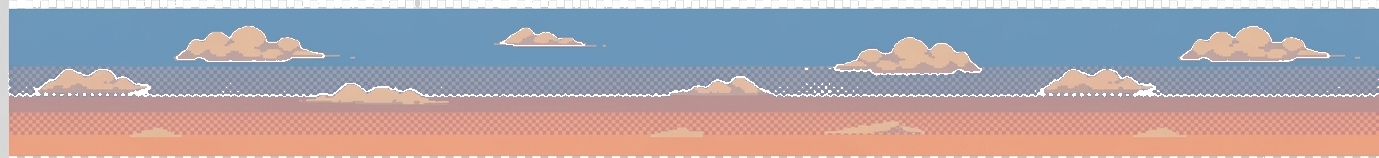
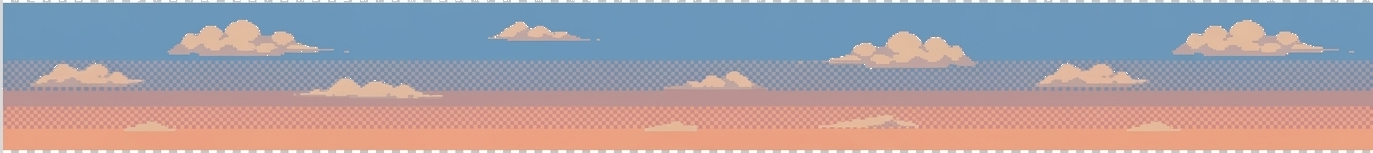
fix: clean asset extraction — full mountain peaks, treeline, no gray borders
- Rewrite extraction using saturation-based pixel detection (delta > 8)
  instead of neutral-fraction thresholds; correctly finds all four tight
  edges per layer so narrow peaks and tree tips are never clipped
- Tighten checkerboard removal delta from 15 → 5 to avoid erasing warm
  near-neutral sky sunset pixels in the dithered gradient
- Set rowing-scene CSS background to #d4895a (warm sunset) so sky dithered
  transparency composites naturally
- Update Pixi app background to match

diff --git a/dashboard/src/components/RowingScene.tsx b/dashboard/src/components/RowingScene.tsx
@@ -99,7 +99,7 @@ export function RowingScene({
       await app.init({
         width: W,
         height: H,
-        backgroundAlpha: 0,
+        background: 0xd4895a, // warm sunset — matches sky dithered transparency
         antialias: false,
         resolution: window.devicePixelRatio ?? 1,
         autoDensity: true,

diff --git a/dashboard/src/components/RowingScene.css b/dashboard/src/components/RowingScene.css
@@ -7,6 +7,8 @@
   overflow: hidden;
   border-radius: 1rem;
   margin-bottom: 0.75rem;
+  /* Warm sunset base — shows through sky dithered transparency */
+  background: #d4895a;
 }
 
 @media (min-width: 768px) {

diff --git a/scripts/extract_rowing_assets.py b/scripts/extract_rowing_assets.py
@@ -1,13 +1,12 @@
 """
 Extract individual layer PNGs from rower_sheet_long.png.
 
-The source file uses a gray checkerboard fill (RGB, no alpha) to mark
-background/separator regions. Content bands are detected by measuring the
-fraction of "neutral gray" pixels per row.
-
-The water layer shares its horizontal band with small rower-frame previews on
-the right, so we additionally detect a vertical separator and crop to the
-water-only portion.
+Approach: for each layer, find tight per-edge boundaries by scanning rows and
+columns for any "colored" pixel (saturation > 8, i.e. not pure gray/black).
+This correctly handles:
+  - Narrow mountain peaks / tree tips that have very few pixels per row
+  - Gray checkerboard borders surrounding each layer in the reference sheet
+  - Transparent sky areas above mountains and treeline
 
 Outputs (dashboard/public/assets/rowing/):
   sky.png, mountains.png, treeline.png, water.png, rower-spritesheet.png
@@ -25,107 +24,160 @@ OUT_DIR = REPO_ROOT / "dashboard" / "public" / "assets" / "rowing"
 
 LAYER_NAMES = ["sky", "mountains", "treeline", "water"]
 
-# A pixel is "neutral gray" (checkerboard filler) when all three channels
-# are within this delta of each other.
-NEUTRAL_DELTA = 15
-# A row is a definite "separator" when this fraction of its pixels are neutral gray.
-SEP_THRESH = 0.95
-# A row is definitely "content" when neutral fraction drops below this.
-CONTENT_THRESH = 0.50
-# Extra rows to extend upward from detected content start.
-# Mountain peaks and tree tips are narrow (few non-neutral pixels per row)
-# so they sit in rows with high neutral-fractions that CONTENT_THRESH misses.
-# Extending by 40 rows captures these features without crossing into the
-# previous separator region.
-TOP_PAD = 40
+# A pixel is "colored content" (not gray filler) when max channel difference > this.
+COLORED_DELTA = 8
 
-# Checkerboard gray range: standard transparency-indicator values used by
-# image editors (light gray ~192, dark gray ~128).
-CHECKER_LO = 115
-CHECKER_HI = 205
+# Checkerboard gray range for transparency removal (after crop).
+# Standard checkerboard uses exactly (128,128,128) and (192,192,192).
+# Keep delta tight so warm/cool near-neutral sky/snow pixels are NOT erased.
+NEUTRAL_DELTA = 5
+CHECKER_LO = 110
+CHECKER_HI = 210
 
-# Layers that should have transparent backgrounds (checkerboard → alpha=0).
-# "water" is a solid layer — keep it opaque.
+# Layers whose gray checkerboard background should become transparent.
 TRANSPARENT_LAYERS = {"sky", "mountains", "treeline"}
 
 
-def row_neutral_fraction(img: Image.Image, y: int) -> float:
-    strip = img.crop((0, y, img.width, y + 1))
-    pixels = list(strip.getdata())
-    neutral = sum(
-        1
-        for r, g, b in pixels
-        if abs(int(r) - int(g)) < NEUTRAL_DELTA
-        and abs(int(r) - int(b)) < NEUTRAL_DELTA
-    )
-    return neutral / img.width
+# ---------------------------------------------------------------------------
+# Helpers
+# ---------------------------------------------------------------------------
+
+def is_colored(r: int, g: int, b: int) -> bool:
+    return max(abs(r - g), abs(r - b), abs(g - b)) > COLORED_DELTA
 
 
-def find_content_bands(img: Image.Image) -> list[tuple[int, int]]:
-    """Return (top, bottom) row pairs for each non-background content band.
+def row_has_colored(img: Image.Image, y: int, x0: int = 0, x1: int | None = None) -> bool:
+    x1 = x1 or img.width
+    strip = list(img.crop((x0, y, x1, y + 1)).getdata())
+    return any(is_colored(r, g, b) for r, g, b in strip)
 
-    Coarse detection (CONTENT_THRESH = 0.50) identifies bands where most of the
-    row is actual content. Each band's top boundary is then extended upward by
-    TOP_PAD rows (clamped to the end of the previous band) to include narrow
-    mountain peaks and tree tips that would otherwise be cut off.
+
+def col_has_colored(img: Image.Image, x: int, y0: int, y1: int) -> bool:
+    col = list(img.crop((x, y0, x + 1, y1)).getdata())
+    return any(is_colored(r, g, b) for r, g, b in col)
+
+
+def tight_bbox(
+    img: Image.Image,
+    search_top: int,
+    search_bot: int,
+    search_left: int = 0,
+    search_right: int | None = None,
+) -> tuple[int, int, int, int]:
     """
-    coarse: list[tuple[int, int]] = []
-    in_content = False
+    Find the tightest bounding box containing any colored pixel within
+    the given search region. Returns (top, bot, left, right) where bot and
+    right are exclusive.
+    """
+    sr = search_right or img.width
+
+    top = search_top
+    for y in range(search_top, search_bot):
+        if row_has_colored(img, y, search_left, sr):
+            top = y
+            break
+
+    bot = search_bot
+    for y in range(search_bot - 1, search_top - 1, -1):
+        if row_has_colored(img, y, search_left, sr):
+            bot = y + 1
+            break
+
+    left = search_left
+    for x in range(search_left, sr):
+        if col_has_colored(img, x, top, bot):
+            left = x
+            break
+
+    right = sr
+    for x in range(sr - 1, search_left - 1, -1):
+        if col_has_colored(img, x, top, bot):
+            right = x + 1
+            break
+
+    return top, bot, left, right
+
+
+# ---------------------------------------------------------------------------
+# Band detection: coarse vertical zones between pure-separator rows
+# ---------------------------------------------------------------------------
+
+def find_separator_runs(img: Image.Image) -> list[tuple[int, int]]:
+    """Return list of (start, end) exclusive row ranges that are pure separators
+    (no colored pixel in the entire row).
+    """
+    runs: list[tuple[int, int]] = []
+    in_sep = True
     start = 0
-
     for y in range(img.height):
-        frac = row_neutral_fraction(img, y)
-        if not in_content and frac < CONTENT_THRESH:
-            in_content = True
+        sep = not row_has_colored(img, y)
+        if not in_sep and sep:
+            in_sep = True
             start = y
-        elif in_content and frac > SEP_THRESH:
-            in_content = False
-            coarse.append((start, y))
-
-    if in_content:
-        coarse.append((start, img.height))
-
-    # Extend each band upward by TOP_PAD, clamped so it doesn't overlap the
-    # previous band's end.
-    bands: list[tuple[int, int]] = []
-    for i, (top, bot) in enumerate(coarse):
-        prev_end = bands[-1][1] if bands else 0
-        extended_top = max(prev_end, top - TOP_PAD)
-        bands.append((extended_top, bot))
-
-    return bands
+        elif in_sep and not sep:
+            in_sep = False
+            if start > 0 or y > 0:  # skip initial non-separator edge
+                runs.append((start, y))
+    if in_sep:
+        runs.append((start, img.height))
+    return runs
 
 
-def find_left_content_width(img: Image.Image, top: int, bottom: int) -> int:
+def find_content_zones(img: Image.Image) -> list[tuple[int, int]]:
+    """Return coarse (top, bot) zones between separator runs."""
+    seps = find_separator_runs(img)
+    if not seps:
+        return [(0, img.height)]
+
+    zones: list[tuple[int, int]] = []
+    prev_end = 0
+    for sep_start, sep_end in seps:
+        if sep_start > prev_end:
+            zones.append((prev_end, sep_start))
+        prev_end = sep_end
+    if prev_end < img.height:
+        zones.append((prev_end, img.height))
+
+    return zones
+
+
+# ---------------------------------------------------------------------------
+# Water layer: split off rower preview frames on the right
+# ---------------------------------------------------------------------------
+
+def find_water_right_edge(
+    img: Image.Image,
+    top: int,
+    bot: int,
+) -> int:
     """
-    For a band that may contain a vertical separator (water | rower frames),
-    return the x-coordinate of the first vertical separator that's wide enough
-    to be a real gap (> 5 px). Returns img.width if no separator found.
+    The water layer shares its horizontal band with rower preview frames on the
+    right, separated by a vertical gray gap. Find the x where that gap starts.
     """
-    mid_y = (top + bottom) // 2
-    strip = img.crop((0, mid_y, img.width, mid_y + 1))
-    pixels = list(strip.getdata())
+    mid_y = (top + bot) // 2
+    row = list(img.crop((0, mid_y, img.width, mid_y + 1)).getdata())
 
     in_sep = False
     sep_start = 0
-    for x, (r, g, b) in enumerate(pixels):
-        is_neutral = abs(int(r) - int(g)) < NEUTRAL_DELTA and abs(int(r) - int(b)) < NEUTRAL_DELTA
-        if not in_sep and is_neutral:
+    for x, (r, g, b) in enumerate(row):
+        neutral = not is_colored(r, g, b)
+        if not in_sep and neutral:
             in_sep = True
             sep_start = x
-        elif in_sep and not is_neutral:
+        elif in_sep and not neutral:
             in_sep = False
-            if x - sep_start > 5 and sep_start > img.width * 0.3:
+            # First interior separator wider than 5px and past 30% width
+            if x - sep_start > 5 and sep_start > img.width * 0.30:
                 return sep_start
 
     return img.width
 
 
+# ---------------------------------------------------------------------------
+# Transparency: replace checkerboard gray with alpha=0
+# ---------------------------------------------------------------------------
+
 def remove_checkerboard(img: Image.Image) -> Image.Image:
-    """
-    Convert a cropped RGB layer to RGBA, replacing checkerboard filler pixels
-    (neutral gray in the range 115–205) with fully transparent pixels.
-    """
     rgba = img.convert("RGBA")
     pixels = rgba.load()
     assert pixels is not None
@@ -142,33 +194,45 @@ def remove_checkerboard(img: Image.Image) -> Image.Image:
     return rgba
 
 
+# ---------------------------------------------------------------------------
+# Main
+# ---------------------------------------------------------------------------
+
 def main() -> None:
     OUT_DIR.mkdir(parents=True, exist_ok=True)
 
     img = Image.open(SRC_LONG).convert("RGB")
-    bands = find_content_bands(img)
 
-    print(f"Detected {len(bands)} content bands in {SRC_LONG.name}")
+    zones = find_content_zones(img)
+    print(f"Found {len(zones)} coarse content zones")
+    for z in zones:
+        print(f"  rows {z[0]}–{z[1]}")
 
+    if len(zones) < len(LAYER_NAMES):
+        print(f"ERROR: expected {len(LAYER_NAMES)} zones, got {len(zones)}")
+        return
+
+    print()
     for i, name in enumerate(LAYER_NAMES):
-        if i >= len(bands):
-            print(f"  WARNING: no band found for layer '{name}'")
-            continue
-
-        top, bottom = bands[i]
+        z_top, z_bot = zones[i]
 
         if name == "water":
-            right_x = find_left_content_width(img, top, bottom)
+            # Restrict horizontal search to just the water portion
+            water_right = find_water_right_edge(img, z_top, z_bot)
+            top, bot, left, right = tight_bbox(img, z_top, z_bot, 0, water_right)
         else:
-            right_x = img.width
+            top, bot, left, right = tight_bbox(img, z_top, z_bot)
 
-        crop = img.crop((0, top, right_x, bottom))
+        crop = img.crop((left, top, right, bot))
+
         if name in TRANSPARENT_LAYERS:
             crop = remove_checkerboard(crop)
+
         out_path = OUT_DIR / f"{name}.png"
         crop.save(out_path, "PNG")
-        print(f"  {name}.png  ({right_x}×{bottom - top}px)  rows {top}–{bottom}")
+        print(f"  {name}.png  ({right - left}×{bot - top}px)  rows {top}–{bot}  cols {left}–{right}")
 
+    # Copy animation spritesheet
     dst = OUT_DIR / "rower-spritesheet.png"
     shutil.copy2(SRC_ANIM, dst)
     anim = Image.open(dst)
